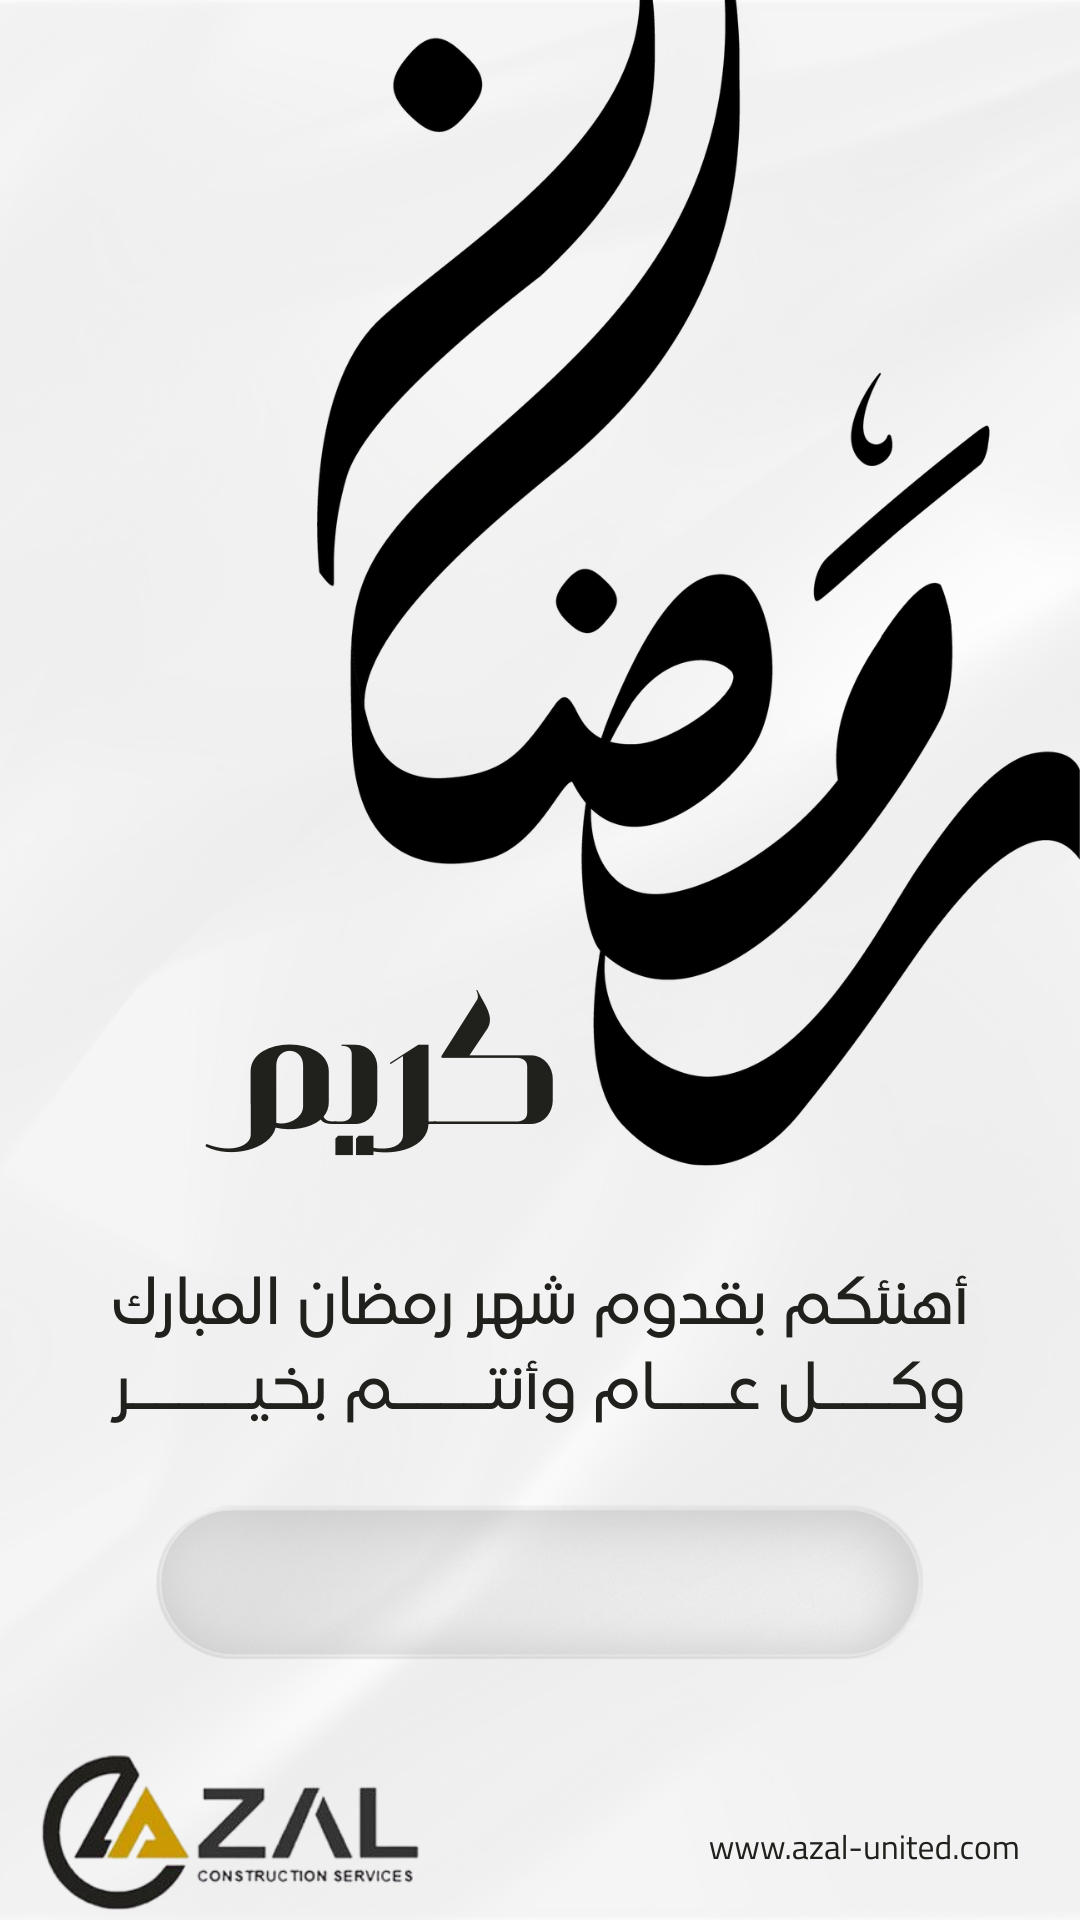
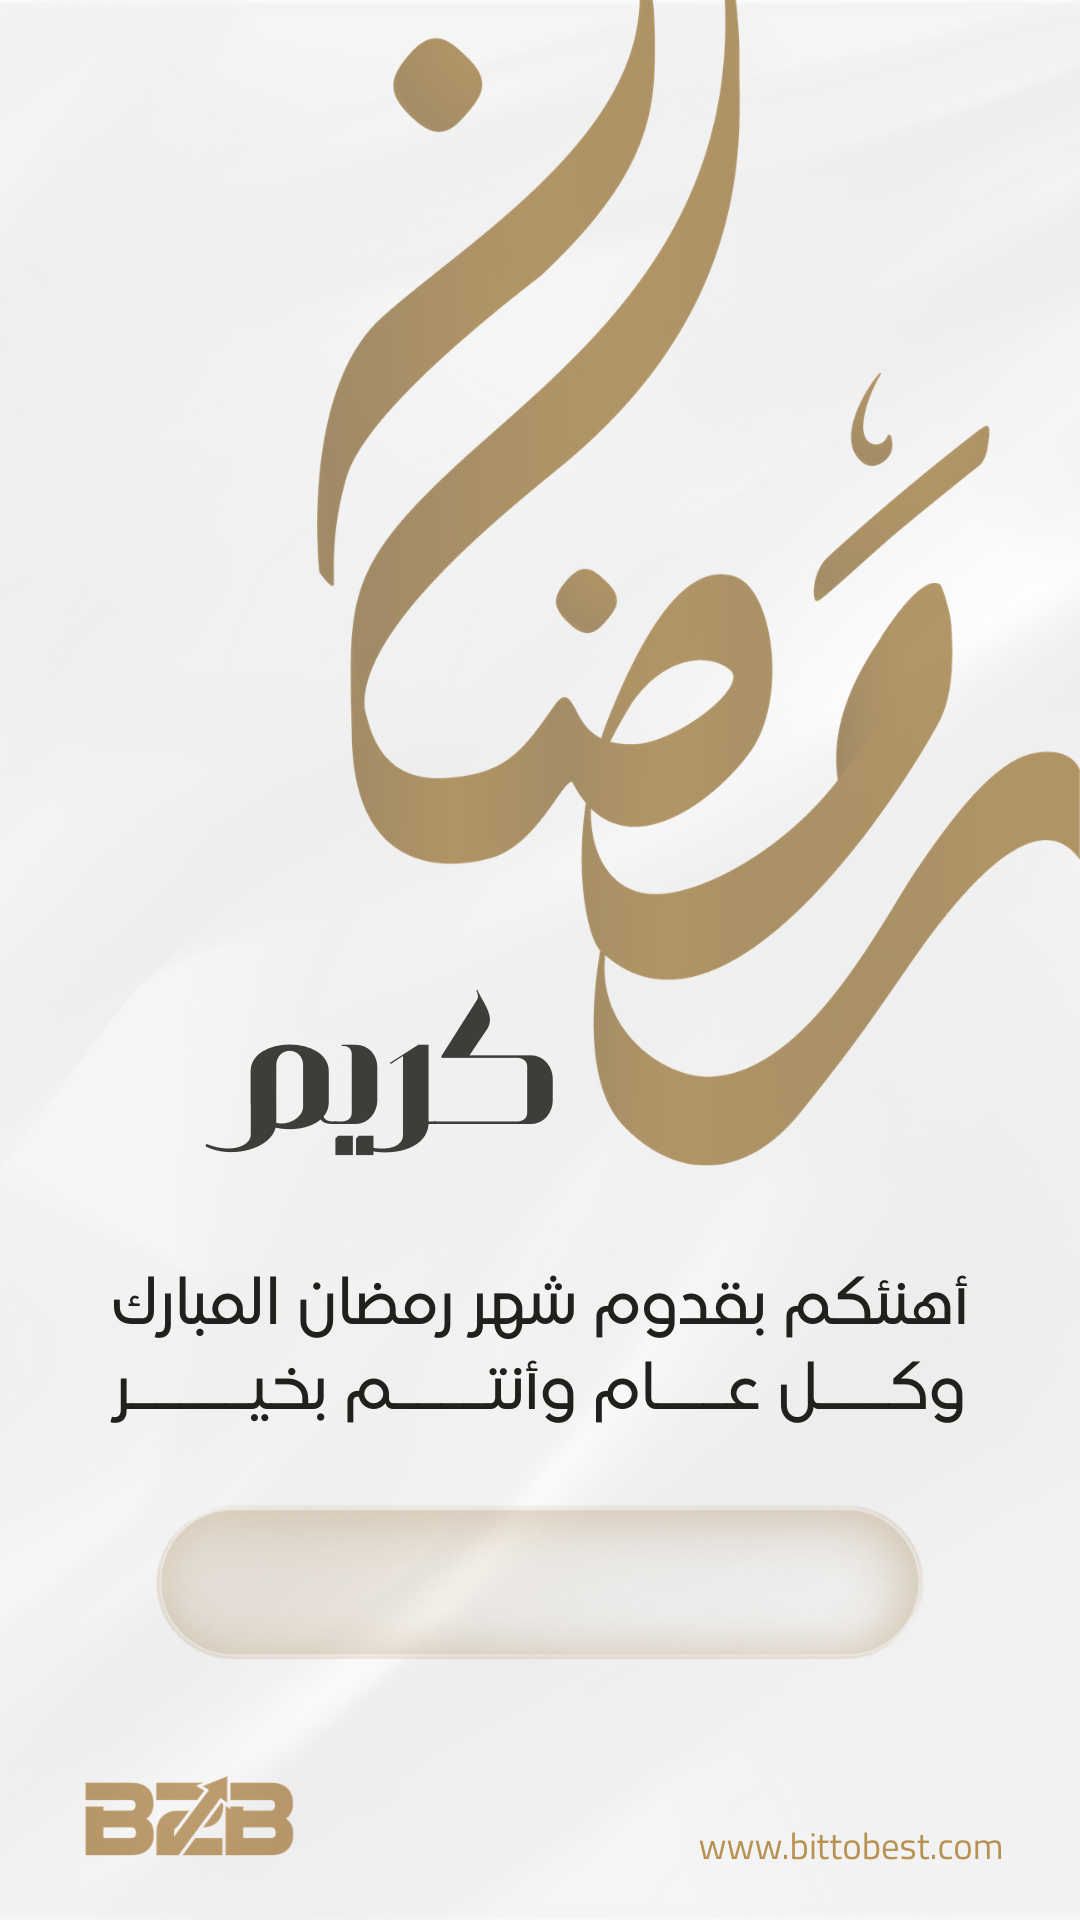
cc

diff --git a/ramadancon/src/pages/Index.tsx b/ramadancon/src/pages/Index.tsx
@@ -25,7 +25,7 @@ const Index = () => {
       <header className="px-6 py-5 flex items-center justify-between border-b border-border/50">
         <div className="flex items-center gap-4">
           <img
-            src="/images/azal-logo.png"
+            src="/images/logo.png"
             alt="Azal United"
             className="h-10 md:h-12 object-contain"
           />
@@ -35,7 +35,7 @@ const Index = () => {
             تهنئة رمضان
           </h1>
           <p className="text-xs md:text-sm text-muted-foreground">
-            أزال يونايتد
+            Bit to best
           </p>
         </div>
       </header>
@@ -94,7 +94,7 @@ const Index = () => {
       <footer className="px-6 py-5 border-t border-border/50 flex items-center justify-center gap-2 text-sm text-muted-foreground">
         <span>تم التطوير بكل ❤ بواسطة سارة</span>
         <a
-          href="https://linkedin.com"
+          href="https://www.linkedin.com/in/sara-techalamrey/"
           target="_blank"
           rel="noopener noreferrer"
           className="inline-flex items-center justify-center w-8 h-8 rounded-full bg-secondary hover:bg-primary hover:text-primary-foreground transition-colors"

diff --git a/ramadancon/index.html b/ramadancon/index.html
@@ -3,9 +3,9 @@
   <head>
     <meta charset="UTF-8" />
     <meta name="viewport" content="width=device-width, initial-scale=1.0" />
-    <title>تهنئة رمضان - أزال يونايتد</title>
-    <meta name="description" content="أرسل تهنئة رمضان مخصصة باسمك بجودة عالية من أزال يونايتد" />
-    <meta property="og:title" content="تهنئة رمضان - أزال يونايتد" />
+    <title>تهنئة رمضان </title>
+    <meta name="description" content="أرسل تهنئة رمضان مخصصة باسمك بجودة عالية   " />
+    <meta property="og:title" content="تهنئة رمضان" />
     <meta property="og:description" content="أرسل تهنئة رمضان مخصصة باسمك بجودة عالية" />
     <meta property="og:type" content="website" />
   </head>

diff --git a/ramadancon/src/hooks/useCardDownload.ts b/ramadancon/src/hooks/useCardDownload.ts
@@ -39,7 +39,7 @@ export const useCardDownload = () => {
       });
 
       const link = document.createElement("a");
-      link.download = `ramadan-azal-${Date.now()}.png`;
+      link.download = `ramadan-B2b-${Date.now()}.png`;
       link.href = canvas.toDataURL("image/png", 1.0);
       link.click();
     } catch (err) {
